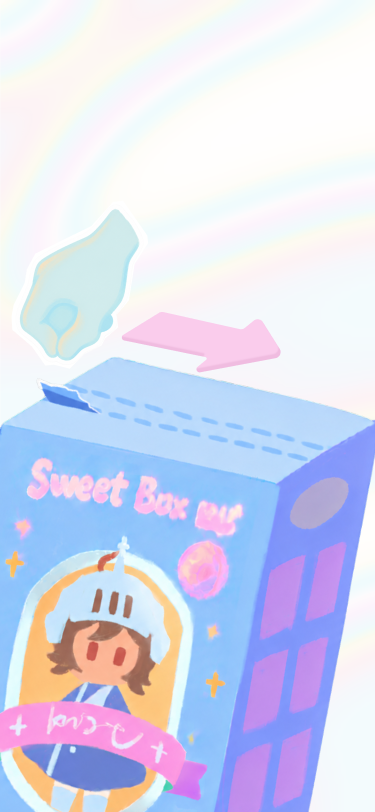
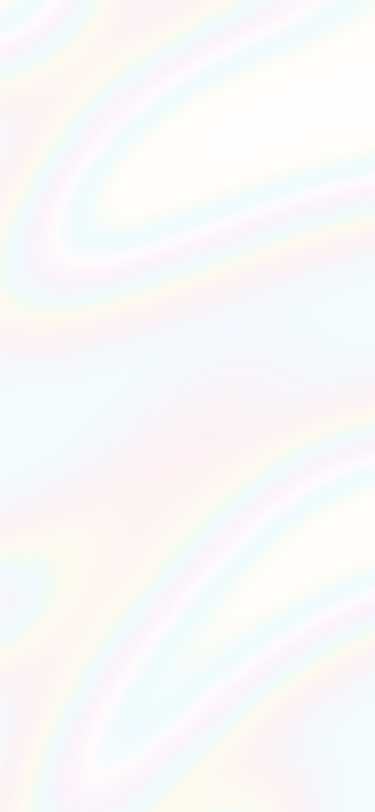
290711拆盲盒1.0

diff --git a/script.js b/script.js
@@ -18,6 +18,46 @@ const buyButton = document.getElementById("buyButton");
 const buyHit = document.getElementById("buyHit");
 
 const page3 = document.getElementById("page3");
+const page3Hand = document.getElementById("page3Hand");
+
+// Page3鼠标是否正在按住拖动，松开后变回false
+let isPage3Dragging = false;
+// Page3是否已经开始过拖动，后续用于让粉色箭头在第一次拖动后保持隐藏
+let page3HasStartedDragging = false;
+// Page3鼠标按下时的横向位置
+let page3PointerStartX = 0;
+// Page3鼠标按下时的纵向位置
+let page3PointerStartY = 0;
+// 本次操作是否达到有效拖动距离
+let page3HasValidDrag = false;
+
+// Page3手部指尖轨迹起点
+const page3HandPathStartX = 58;
+const page3HandPathStartY = 358;
+
+
+// Page3手部指尖轨迹终点
+const page3HandPathEndX = 280;
+const page3HandPathEndY = 438;
+
+
+// Page3手部完整轨迹移动量
+const page3HandPathMoveX =
+    page3HandPathEndX -
+    page3HandPathStartX;
+
+
+const page3HandPathMoveY =
+    page3HandPathEndY -
+    page3HandPathStartY;
+
+// Page3手部当前所在的轨迹进度
+// 0代表起点，1代表终点
+let page3HandProgress = 0;
+
+
+// 鼠标按下时，手部原来的轨迹进度
+let page3HandProgressAtPointerDown = 0;
 
 // 2. 初始化状态（必须在DOM之后）
 page2.style.display = "none";
@@ -403,8 +443,13 @@ buyHit.addEventListener("click", () => {
 
 
         // 显示Page3
-
         page3.style.display = "block";
+        // 显示Page3放大盲盒
+        document.getElementById("page3Box").style.display = "block";
+        // 显示Page3粉色箭头
+        document.getElementById("page3Arrow").style.display = "block";
+        // 显示Page3手部图标
+        document.getElementById("page3Hand").style.display = "block";
 
 
     }, 500);
@@ -1223,3 +1268,217 @@ function playBoxShakeAnimation(
     );
 
 }
+
+// ===========================
+// Page3鼠标按下
+// ===========================
+
+page3.addEventListener(
+    "pointerdown",
+    event => {
+
+        // 电脑端只响应鼠标左键
+        if (
+            event.pointerType === "mouse" &&
+            event.button !== 0
+        ) {
+
+            return;
+
+        }
+
+
+        event.preventDefault();
+
+
+        // 记录正在拖动
+        isPage3Dragging = true;
+
+        // 记录鼠标按下的位置
+        page3PointerStartX =
+            event.clientX;
+
+        page3PointerStartY =
+            event.clientY;
+
+        // 记录鼠标按下时手部已有的轨迹进度
+        page3HandProgressAtPointerDown =
+            page3HandProgress;
+
+
+        // 每次按下时，先视为没有发生有效拖动
+        page3HasValidDrag = false;
+
+
+        // 第一次拖动后隐藏粉色箭头
+        document.getElementById(
+            "page3Arrow"
+        ).style.display = "none";
+
+
+        // 持续接收当前鼠标或手指的移动事件
+        page3.setPointerCapture(
+            event.pointerId
+        );
+
+    }
+);
+
+// ===========================
+// Page3鼠标移动距离判断
+// ===========================
+
+page3.addEventListener(
+    "pointermove",
+    event => {
+
+        // 没有按住鼠标时不执行
+        if (!isPage3Dragging) {
+
+            return;
+
+        }
+
+
+        // 计算鼠标距离按下位置的移动量
+        const moveDistanceX =
+            event.clientX -
+            page3PointerStartX;
+
+
+        const moveDistanceY =
+            event.clientY -
+            page3PointerStartY;
+
+
+        // 计算实际移动距离
+        const totalMoveDistance =
+            Math.hypot(
+                moveDistanceX,
+                moveDistanceY
+            );
+
+
+        // 移动达到40px后，判定为有效拖动
+        if (totalMoveDistance >= 40) {
+
+            page3HasValidDrag = true;
+
+            page3HasStartedDragging = true;
+
+        }
+
+        // 获取Page3在当前电脑窗口中的实际尺寸
+        const page3Rect =
+            page3.getBoundingClientRect();
+
+
+        // 将电脑屏幕中的鼠标移动量
+        // 转换为375×812设计稿中的移动量
+        const designMoveX =
+            moveDistanceX *
+            (375 / page3Rect.width);
+
+
+        const designMoveY =
+            moveDistanceY *
+            (812 / page3Rect.height);
+
+
+        // 计算鼠标移动在斜向轨迹上的投影
+        const pathLengthSquared =
+            page3HandPathMoveX *
+            page3HandPathMoveX +
+            page3HandPathMoveY *
+            page3HandPathMoveY;
+
+
+        const progressChange =
+            (
+                designMoveX *
+                page3HandPathMoveX +
+                designMoveY *
+                page3HandPathMoveY
+            ) /
+            pathLengthSquared;
+
+
+        // 根据按下时的原位置更新手部进度
+        page3HandProgress =
+            page3HandProgressAtPointerDown +
+            progressChange;
+
+
+        // 限制进度不能超过起点和终点
+        page3HandProgress =
+            Math.max(
+                0,
+                Math.min(
+                    1,
+                    page3HandProgress
+                )
+            );
+
+        // 根据当前进度计算手部移动距离
+        const page3HandMoveX =
+            page3HandPathMoveX *
+            page3HandProgress;
+
+
+        const page3HandMoveY =
+            page3HandPathMoveY *
+            page3HandProgress;
+
+
+        // 让手部只沿设定的斜向轨迹移动
+        page3Hand.style.transform =
+            `translate3d(${page3HandMoveX}px, ${page3HandMoveY}px, 0)`;
+    }
+);
+
+// ===========================
+// Page3鼠标松开
+// ===========================
+
+page3.addEventListener(
+    "pointerup",
+    event => {
+
+        // 结束当前拖动
+        isPage3Dragging = false;
+
+
+        // 本次没有发生有效拖动，
+        // 并且用户此前也没有完成过拖动
+        if (
+            !page3HasValidDrag &&
+            !page3HasStartedDragging
+        ) {
+
+            // 重新显示粉色箭头
+            document.getElementById(
+                "page3Arrow"
+            ).style.display = "block";
+
+        }
+
+
+        // 释放当前鼠标或手指
+        if (
+            page3.hasPointerCapture(
+                event.pointerId
+            )
+        ) {
+
+            page3.releasePointerCapture(
+                event.pointerId
+            );
+
+        }
+
+
+        // 重置本次拖动状态
+        page3HasValidDrag = false;
+
+    }
+);

diff --git a/style.css b/style.css
@@ -422,3 +422,94 @@ body {
     z-index: 60;
 
 }
+
+/* Page3放大盲盒 */
+.page3-box {
+
+    position: absolute;
+
+    width: 100%;
+    height: 100%;
+
+    top: 0;
+    left: 0;
+
+    object-fit: contain;
+
+    display: none;
+
+    z-index: 61;
+
+    pointer-events: none;
+
+}
+
+/* Page3粉色箭头 */
+.page3-arrow {
+
+    position: absolute;
+
+    width: 100%;
+    height: 100%;
+
+    top: 0;
+    left: 0;
+
+    object-fit: contain;
+
+    display: none;
+
+    z-index: 62;
+
+    pointer-events: none;
+
+    transform-origin: center center;
+
+    animation:
+    page3ArrowMove 1.2s ease-in-out infinite alternate;
+
+}
+
+@keyframes page3ArrowMove {
+
+    0% {
+
+        transform:
+            translate3d(0, 0, 0);
+
+    }
+
+
+    100% {
+
+        transform:
+            translate3d(65px, 20px, 0);
+
+    }
+
+}
+
+/* Page3手部图标 */
+.page3-hand {
+
+    position: absolute;
+
+    width: 100%;
+    height: 100%;
+
+    top: 0;
+    left: 0;
+
+    object-fit: contain;
+
+    display: none;
+
+    z-index: 63;
+
+    pointer-events: none;
+
+    transform-origin: center center;
+
+    will-change: transform;
+
+}

diff --git a/index.html b/index.html
@@ -35,7 +35,7 @@
 
         <!-- Page2 缩略图状态 -->
         <img src="images/thumbnail_1.png" class="thumbnail" id="thumbnail">
-        
+
 
         <!-- Page2 盲盒晃动容器 -->
         <div class="box-motion" id="boxMotion">
@@ -66,6 +66,15 @@
 
         <!-- Page3 -->
         <img src="images/page3_bg.png" class="page3-bg" id="page3">
+
+        <!-- Page3放大盲盒 -->
+        <img src="images/page3_box.png" class="page3-box" id="page3Box">
+
+        <!-- Page3粉色箭头 -->
+        <img src="images/page3_arrow.png" class="page3-arrow" id="page3Arrow">
+
+        <!-- Page3手部图标 -->
+        <img src="images/page3_hand.png" class="page3-hand" id="page3Hand">
 
         <!-- Page2 返回点击区域 -->
         <div class="page2-back-hit" id="page2Back"></div>